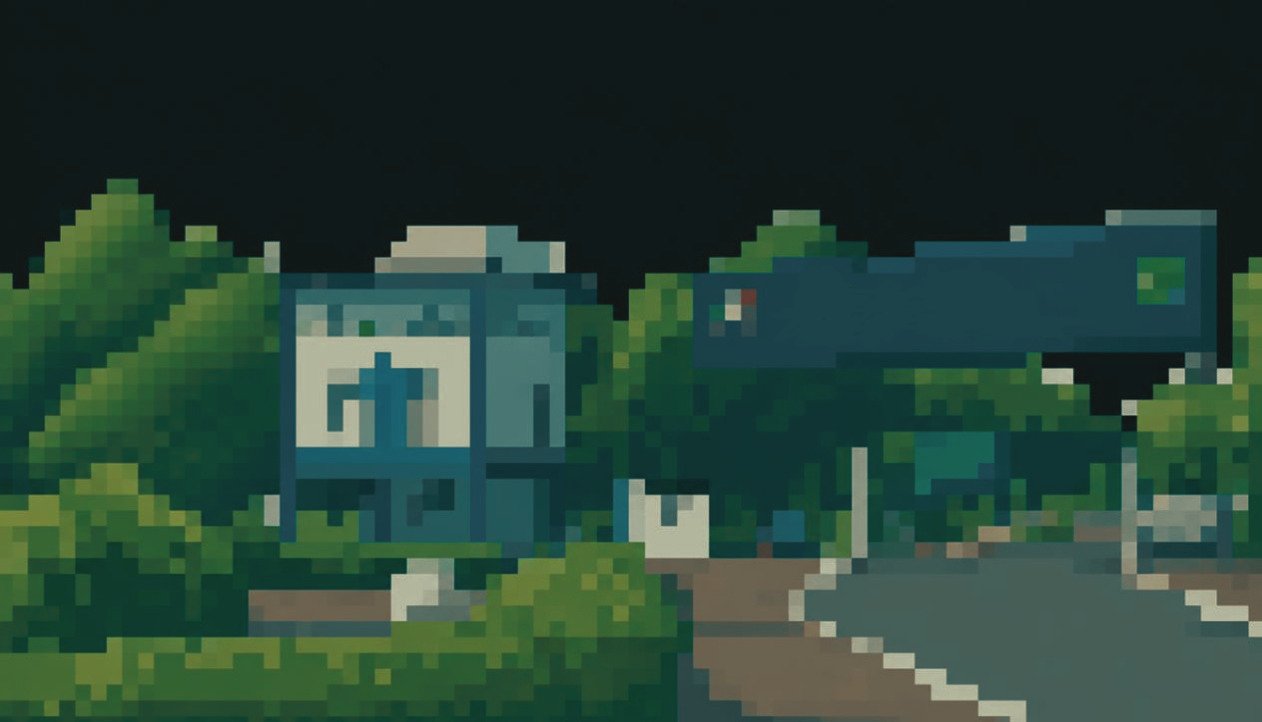
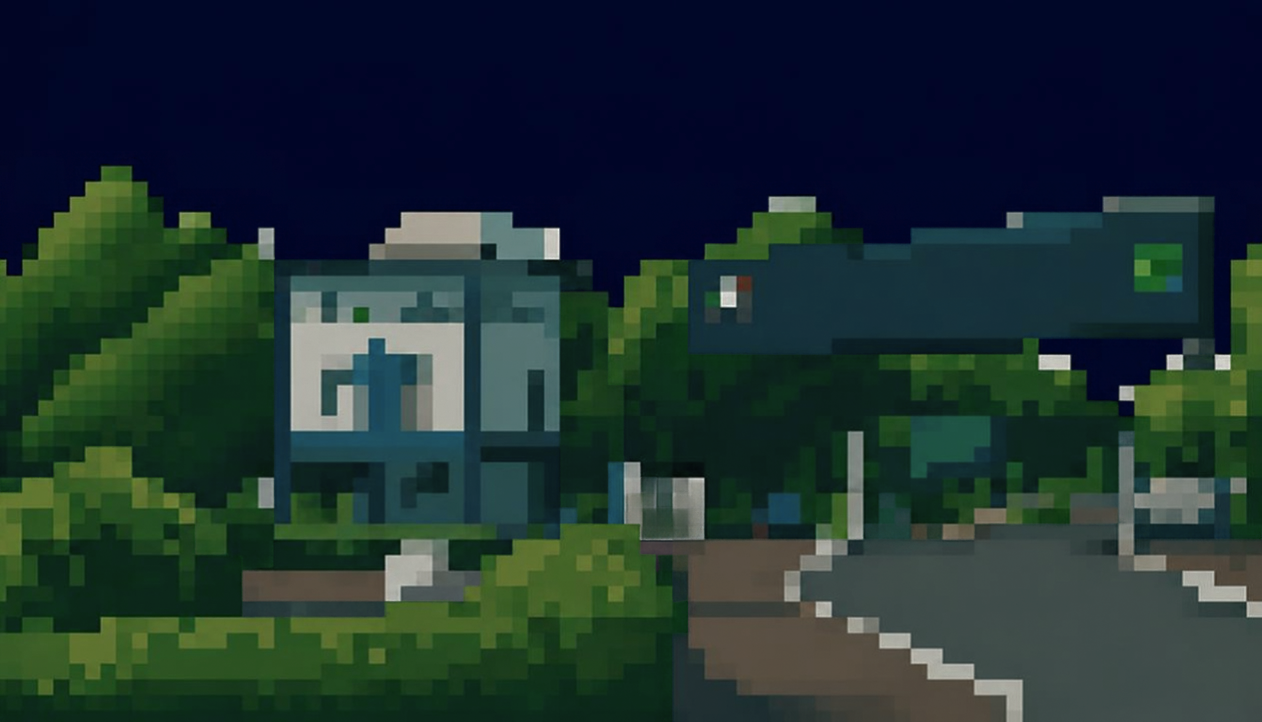
feat: atualizacoes no menu e ajuste do arquivo de algoritmos

diff --git a/menu.py b/menu.py
@@ -1,21 +1,25 @@
 import pygame
 import sys
 
-from BibliotecaGrafica.algoritmos import set_pixel, linha_bresenham, flood_fill_iterativo, bresenham_circulo
+from BibliotecaGrafica.algoritmos import linha_bresenham, flood_fill_iterativo, bresenham_circulo, desenhar_elipse
 
 LARGURA, ALTURA = 1262, 722
-CAMINHO_FONTE = "TrabalhoCG2D/Assets/PressStart2P-Regular.ttf"
-CAMINHO_FUNDO = "TrabalhoCG2D/Assets/uece_noite.png"
+CAMINHO_FONTE = "./Assets/PressStart2P-Regular.ttf"
+CAMINHO_FUNDO = "./Assets/uece-noite.png"
 COR_BOTAO = pygame.Color('#538645')
 COR_HOVER =  pygame.Color("#729D65") #VERDE + CLARO
 COR_BORDA_BOTAO = pygame.Color("#335F27") #VERDE + ESCURO
 COR_TEXTO = pygame.Color("#D1F4C7")
 COR_TITULO = pygame.Color("#508640")
+COR_LUA = (238, 220, 130)
+COR_NUVEM = (255, 255, 255, 80) #Com parametro alpha de transparencia
 
 fonte = None
 fonte_titulo = None
 imagem_fundo = None
 superficie_circulo = None
+superficie_elipse = None
+superficie_nuvem = None
 
 botoes = [
     {"nome": "JOGAR", "acao": "jogar", "x0": 431, "y0": 250, "x1": 831, "y1": 330},
@@ -24,24 +28,24 @@ botoes = [
 ]
 
 def criar_superficie_botao(largura, altura, cor, cor_borda):
-    superficie = pygame.Surface((largura, altura), pygame.SRCALPHA)
+    superficie = pygame.Surface((largura, altura))
     linha_bresenham(superficie, 0, 0, largura - 1, 0, cor_borda)
     linha_bresenham(superficie, 0, 0, 0, altura - 1, cor_borda)
 
-#   efeito de profundidade nas bordas de baixo e da direita
+#   efeito de profundidade nas bordas de baixo e da direita usando o bresenham profundidade=8 vezes
     profundidade = 8
     for i in range(profundidade):
         linha_bresenham(superficie, largura - 1 - i, i, largura -1 - i, altura - 1 - i, cor_borda)
         linha_bresenham(superficie, i, altura - 1 - i, largura - 1 - i, altura - 1 - i, cor_borda)
 
-    x_centro = largura // 2
-    y_centro = altura // 2
-    flood_fill_iterativo(superficie, x_centro, y_centro, cor, cor_borda)
+    centro_x = largura // 2
+    centro_y = altura // 2
+    flood_fill_iterativo(superficie, centro_x, centro_y, cor, cor_borda)
 
     return superficie
 
 def criar_superficie_circulo(raio, cor):
-    diametro = raio * 2 + 1
+    diametro = raio * 2 + 1# + 1 p/ ter a msm quantidade de pixels dos dois lados do centro p/ que a borda n fique cortada 
     superficie = pygame.Surface((diametro, diametro), pygame.SRCALPHA)
     centro = raio
 
@@ -51,8 +55,44 @@ def criar_superficie_circulo(raio, cor):
     return superficie
 
 
+def criar_superficie_elipse(raio_x, raio_y, cor_borda, cor_preenchimento=None):
+    largura = 2 * raio_x + 1 
+    altura = 2 * raio_y + 1 
+    superficie_elipse = pygame.Surface((largura, altura), pygame.SRCALPHA)
+
+    centro_x = raio_x
+    centro_y = raio_y
+
+    desenhar_elipse(superficie_elipse, centro_x, centro_y, raio_x, raio_y, cor_borda)
+
+    if cor_preenchimento:
+        flood_fill_iterativo(superficie_elipse, centro_x, centro_y, cor_preenchimento, cor_borda)
+
+    return superficie_elipse
+
+def criar_superficie_nuvem(cor_borda, cor_preenchimento):
+    largura, altura = 260, 110
+    superficie_nuvem = pygame.Surface((largura, altura), pygame.SRCALPHA)
+    #superficie para colocar as 3 elipses que compoem a nuvem
+
+    elipses_nuvem = [ #lista de tuplas com raios e posisoes da elipses
+        (50, 30, 10, 25),
+        (60, 40, 65, 5),
+        (50, 30, 145, 25)
+    ]
+
+    for raio_x, raio_y, posicao_x, posicao_y in elipses_nuvem:
+        centro_x = posicao_x + raio_x
+        centro_y = posicao_y + raio_y
+        desenhar_elipse(superficie_nuvem, centro_x, centro_y, raio_x, raio_y, cor_borda)
+
+        flood_fill_iterativo(superficie_nuvem, centro_x, centro_y, cor_preenchimento, cor_borda)
+
+
+    return superficie_nuvem
+
 def iniciar_menu():
-    global fonte, fonte_titulo, imagem_fundo, superficie_circulo
+    global fonte, fonte_titulo, imagem_fundo, superficie_circulo, superficie_nuvem
 
     fonte = pygame.font.Font(CAMINHO_FONTE, 18)
     fonte_titulo = pygame.font.Font(CAMINHO_FONTE, 38)
@@ -60,8 +100,8 @@ def iniciar_menu():
     imagem_fundo = pygame.image.load(CAMINHO_FUNDO)
 
     #pre renderiza o circulo/lua
-    superficie_circulo = criar_superficie_circulo(50, (238, 238, 224))
-
+    superficie_circulo = criar_superficie_circulo(50, COR_LUA)
+    superficie_nuvem = criar_superficie_nuvem(COR_NUVEM, COR_NUVEM)
     #pre renderiza cada botao no estado normal e no estado de hover
     for botao in botoes:
         largura_botao = botao["x1"] - botao["x0"]
@@ -70,8 +110,8 @@ def iniciar_menu():
         botao["superficie"] = criar_superficie_botao(largura_botao, altura_botao, COR_BOTAO, COR_BORDA_BOTAO)
         botao["superficie_hover"] = criar_superficie_botao(largura_botao, altura_botao, COR_HOVER, COR_BORDA_BOTAO)
 
-def ponto_no_botao(x_ponto, y_ponto, x0, y0, x1, y1):
-    return x0 <= x_ponto <= x1 and y0 <= y_ponto <= y1
+def ponto_no_botao(ponto_x, ponto_y, x0, y0, x1, y1):
+    return x0 <= ponto_x <= x1 and y0 <= ponto_y <= y1
 
 
 def desenhar_menu(superficie, posicao_mouse):
@@ -82,6 +122,7 @@ def desenhar_menu(superficie, posicao_mouse):
     titulo_x = LARGURA // 2 - texto_titulo.get_width() // 2
 
     superficie.blit(texto_titulo, (titulo_x, 100))
+    superficie.blit(superficie_nuvem, (80, 40))
 
     for botao in botoes:
         if ponto_no_botao(posicao_mouse[0], posicao_mouse[1], botao["x0"], botao["y0"], botao["x1"], botao["y1"]):
@@ -96,22 +137,23 @@ def desenhar_menu(superficie, posicao_mouse):
         largura_botao = botao["x1"] - botao["x0"]
         altura_botao = botao["y1"] - botao["y0"]
 
-        x_texto = botao["x0"] + largura_botao // 2 - texto.get_width() // 2
-        y_texto = botao["y0"] + altura_botao // 2 - texto.get_height() // 2
+        texto_x = botao["x0"] + largura_botao // 2 - texto.get_width() // 2
+        texto_y = botao["y0"] + altura_botao // 2 - texto.get_height() // 2
 
-        superficie.blit(texto, (x_texto, y_texto))
+        superficie.blit(texto, (texto_x, texto_y))
 
-    superficie.blit(superficie_circulo, (1060 - 52, 80 - 52))
+    superficie.blit(superficie_circulo, (1000, 35))
 
 #identifica o clique do mouse e retorna o nome da acao associada ao botao
-def clique_menu(posicao_mouse):
-    x_mouse, y_mouse = posicao_mouse
+def acao_menu(posicao_mouse):
+    mouse_x, mouse_y = posicao_mouse
 
     for botao in botoes:
-        if ponto_no_botao(x_mouse, y_mouse, botao["x0"], botao["y0"], botao["x1"], botao["y1"]):
+        if ponto_no_botao(mouse_x, mouse_y, botao["x0"], botao["y0"], botao["x1"], botao["y1"]):
             return botao["acao"]
 
     return None
+
 
 if __name__ == "__main__":
     pygame.init()
@@ -133,7 +175,7 @@ if __name__ == "__main__":
                 rodando = False
 
             if evento.type == pygame.MOUSEBUTTONDOWN:
-                acao = clique_menu(posicao_mouse)
+                acao = acao_menu(posicao_mouse)
 
                 if acao == "sair":
                     rodando = False
@@ -143,3 +185,6 @@ if __name__ == "__main__":
 
     pygame.quit()
     sys.exit()
+
+
+    

diff --git a/BibliotecaGrafica/algoritmos.py b/BibliotecaGrafica/algoritmos.py
@@ -1,3 +1,5 @@
+import math
+
 def set_pixel(superficie, x, y, cor):
     superficie.set_at((int(x), int(y)), cor)
 
@@ -82,8 +84,7 @@ def flood_fill_iterativo(superficie, x, y, cor_preenchimento, cor_borda):
         if not (0 <= x < largura and 0 <= y < altura):
             continue
 
-        cor_atual = superficie.get_at((x, y))[:3]
-
+        cor_atual = superficie.get_at((x, y))
         if cor_atual == cor_borda or cor_atual == cor_preenchimento:
             continue
 
@@ -93,6 +94,63 @@ def flood_fill_iterativo(superficie, x, y, cor_preenchimento, cor_borda):
         pilha.append((x - 1, y))
         pilha.append((x, y + 1))
         pilha.append((x, y - 1))
+
+
+def desenhar_aabb(superficie, aabb, cor):
+
+    x1, y1, x2, y2 = aabb
+
+    pontos = [
+        (x1, y1),
+        (x2, y1),
+        (x2, y2),
+        (x1, y2)
+    ]
+
+    draw_polygonon(superficie, pontos, cor)
+
+def pontos_circulo(cx, cy, raio):
+    pontos = []
+    x, y = 0, raio
+    d = 1 - raio                     # para decisão
+
+    while x <= y:
+        # simetria de 8 vias
+        for px, py in ((x, y), (y, x), (-x, y), (-y, x),
+                       (x, -y), (y, -x), (-x, -y), (-y, -x)):
+            pontos.append((cx + px, cy + py))
+
+        x += 1
+        if d < 0:                  
+            d += 2 * x + 1
+        else:                       
+            y -= 1
+            d += 2 * (x - y) + 1
+
+    return pontos
+
+def linhas_circulo_preenchido(cx, cy, raio):
+    linhas = []
+    for dy in range(-raio, raio + 1):
+        dx = int(math.sqrt(raio * raio - dy * dy))
+        linhas.append((cy + dy, cx - dx, cx + dx))
+    return linhas
+
+def desenhar_circulo(superficie, centro, raio, cor, preenchido=False):
+    largura, altura = superficie.get_size()
+    cx, cy = int(centro[0]), int(centro[1])
+    raio = int(raio)
+
+    set_pixel = superficie.set_at
+    if preenchido:
+        for y, x1, x2 in linhas_circulo_preenchido(cx, cy, raio):
+            if 0 <= y < altura:
+                for x in range(max(x1, 0), min(x2, largura - 1) + 1):
+                    set_pixel((x, y), cor)
+    else:
+        for x, y in pontos_circulo(cx, cy, raio):
+            if 0 <= x < largura and 0 <= y < altura:
+                set_pixel((x, y), cor)
 
 
 def bresenham_circulo(superficie, xc, yc, r, cor):
@@ -121,3 +179,49 @@ def plotar8(superficie, xc, yc, x, y, cor):
     set_pixel(superficie, xc - y, yc + x, cor)
     set_pixel(superficie, xc + y, yc - x, cor)
     set_pixel(superficie, xc - y, yc - x, cor)
+
+def plotar4(superficie, xc, yc, x, y, cor):
+    set_pixel(superficie, xc + x, yc + y, cor)
+    set_pixel(superficie, xc - x, yc + y, cor)
+    set_pixel(superficie, xc + x, yc - y, cor)
+    set_pixel(superficie, xc - x, yc - y, cor)
+
+
+def desenhar_elipse(superficie, xc, yc, rx, ry, cor):
+    x = 0
+    y = ry
+
+    rx2 = rx * rx
+    ry2 = ry * ry
+
+    dx = 2 * ry2 * x
+    dy = 2 * rx2 * y
+
+    d1 = ry2 - (rx2 * ry) + (0.25 * rx2)
+
+    while dx < dy:
+        plotar4(superficie, xc, yc, x, y, cor)
+        x += 1
+        dx += 2 * ry2
+
+        if d1 < 0:
+            d1 += dx + ry2
+        else:
+            y -= 1
+            dy -= 2 * rx2
+            d1 += dx - dy + ry2
+
+    d2 = (ry2 * ((x + 0.5) ** 2)) + (rx2 * ((y - 1) ** 2)) - (rx2 * ry2)
+
+    while y >= 0:
+        plotar4(superficie, xc, yc, x, y, cor)
+
+        y -= 1
+        dy -= 2 * rx2
+
+        if d2 > 0:
+            d2 += rx2 - dy
+        else:
+            x += 1
+            dx += 2 * ry2
+            d2 += dx - dy + rx2
